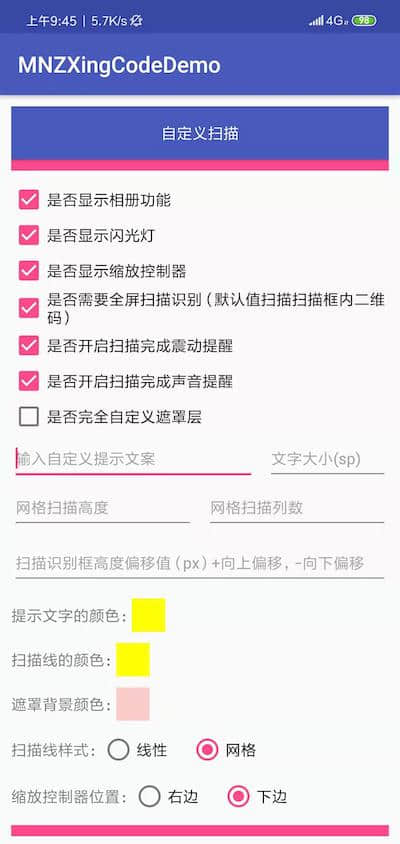
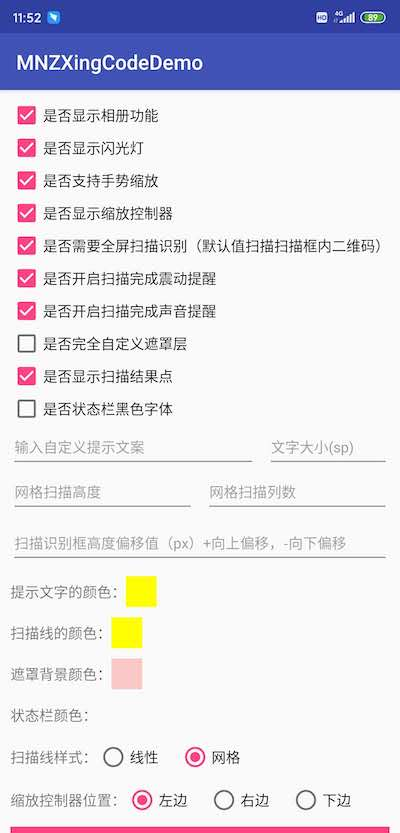
修改Demo

Changed region(s): [[0.0, 0.0624, 1.0, 1.0], [0.03, 0.0, 0.36, 0.0312], [0.78, 0.0, 0.96, 0.0312]]

diff --git a/app/src/main/java/com/maning/zxingcodedemo/CustomScanActivity.java b/app/src/main/java/com/maning/zxingcodedemo/CustomScanActivity.java
@@ -236,6 +236,10 @@ public class CustomScanActivity extends AppCompatActivity implements View.OnClic
     private String getHexString(int color) {
         String format = String.format("#%X", color);
         Log.e("=====", "format:" + format);
+        if("#0".equals(format)){
+            format = "#00000000";
+            Log.e("=====", "format:" + format);
+        }
         return format;
     }
 

diff --git a/README.md b/README.md
@@ -1,23 +1,28 @@
-#   ZXingCode 快速集成二维码扫描
+#   ZXingCode 快速集成二维码扫描，支持AndroidX
 
 ##  快速集成二维码扫描，生成二维码，可配置相册，闪光灯，相机可以调整焦距放大缩小，自定义扫描线颜色，自定义背景颜色，自定义遮罩层（ZXing 3.4.0）
 [![](https://jitpack.io/v/maning0303/MNZXingCode.svg)](https://jitpack.io/#maning0303/MNZXingCode)
 
 ##  功能：
     1：生成二维码（带Logo）
-    2：二维码扫描
+    2：二维码扫描，手势缩放，无拉伸，样式所以选
     3：相册中选取图片识别
     4：闪光灯开关
     5: 相机可以调整焦距放大缩小
     6: 完全自定义遮罩层
 
 ## 截图:
-![image](https://github.com/maning0303/ZXingCodeDemo/blob/master/screenshots/mn_zxing_screenshot_000.png)
+![image](https://github.com/maning0303/ZXingCodeDemo/blob/master/screenshots/mn_zxing_screenshot_000.jpeg)
 ![image](https://github.com/maning0303/ZXingCodeDemo/blob/master/screenshots/mn_zxing_screenshot_001.jpeg)
-![image](https://github.com/maning0303/ZXingCodeDemo/blob/master/screenshots/mn_zxing_screenshot_002.png)
+
+#### 默认扫描
+![image](https://github.com/maning0303/ZXingCodeDemo/blob/master/screenshots/mn_zxing_screenshot_002.jpeg)
+
+#### 自定义颜色扫描样式等
+![image](https://github.com/maning0303/ZXingCodeDemo/blob/master/screenshots/mn_zxing_screenshot_003.jpeg)
 
 #### 完全自定义遮罩层
-![image](https://github.com/maning0303/ZXingCodeDemo/blob/master/screenshots/mn_zxing_screenshot_003.png)
+![image](https://github.com/maning0303/ZXingCodeDemo/blob/master/screenshots/mn_zxing_screenshot_004.jpeg)
 
 ## 如何添加
 ### Gradle添加：
@@ -198,6 +203,7 @@
 
 [zxing](https://github.com/zxing/zxing)
 [BGAQRCode-Android](https://github.com/bingoogolapple/BGAQRCode-Android)
+[Ye-Miao](https://github.com/Ye-Miao)
 感谢所有开源的人；
 
 
